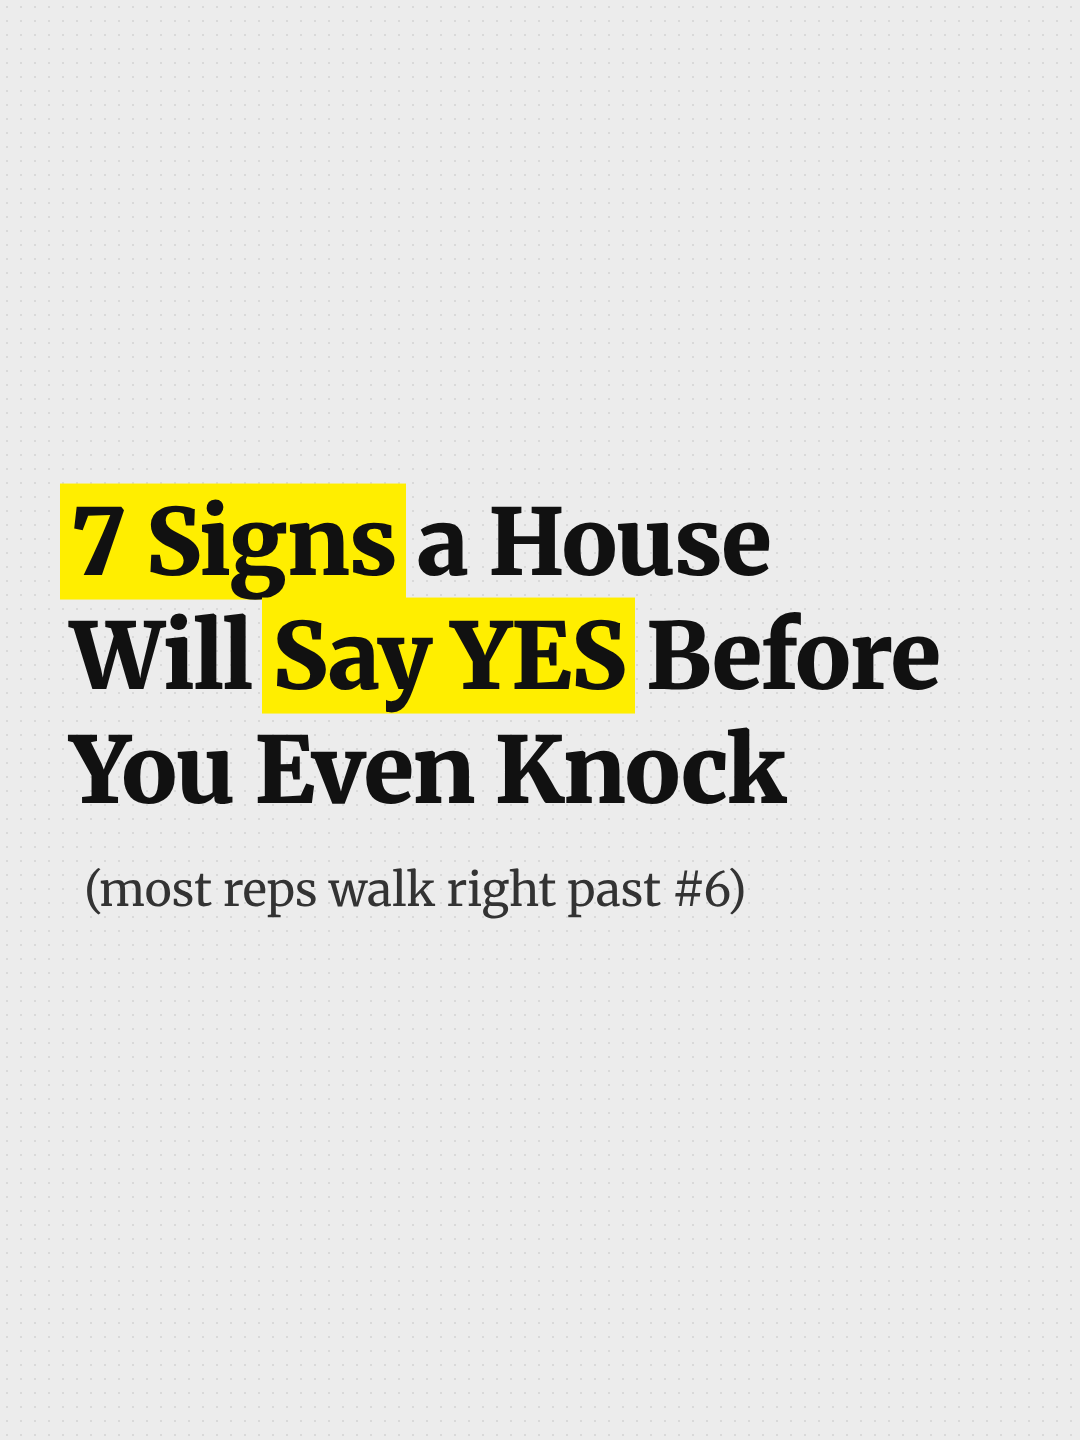
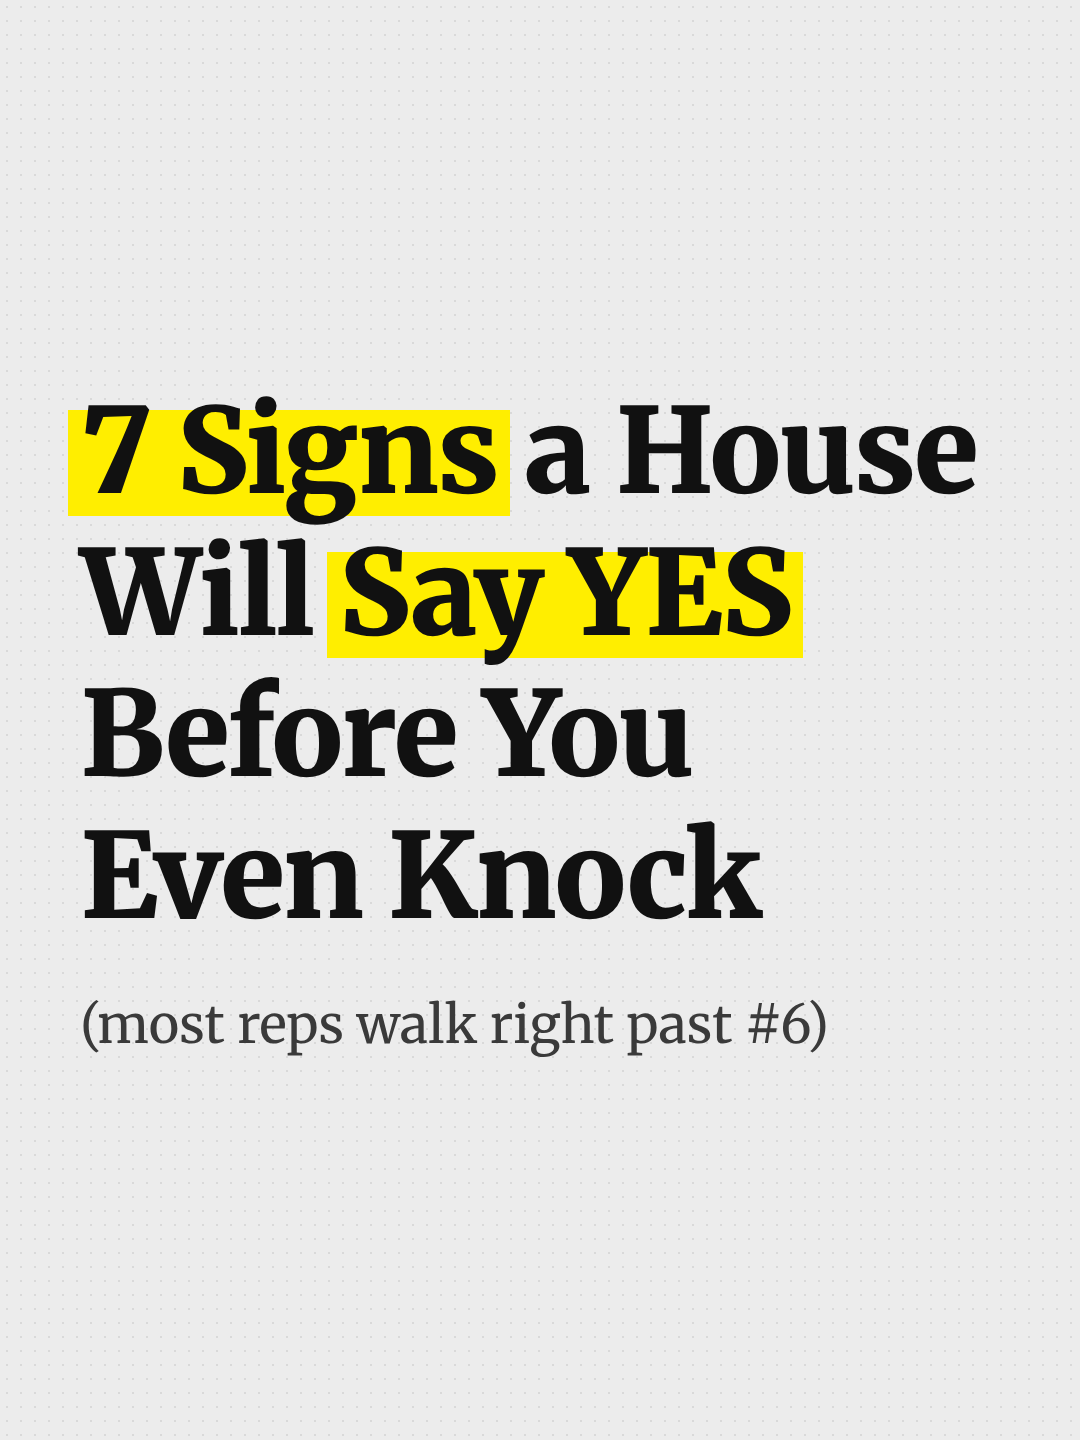
playbook: hook sizing, line breaks, marker highlights (F68)
Claude-Session: https://claude.ai/code/session_01EVxDagMumu1dzbEEzpRUBn

Changed region(s): [[0.0306, 0.2812, 0.9167, 0.6562], [0.0611, 0.6875, 0.7639, 0.75]]

diff --git a/video_research/content_kit/edits/signs_slides/hook.html b/video_research/content_kit/edits/signs_slides/hook.html
@@ -3,12 +3,16 @@
 @font-face{font-family:MW;src:url(/root/.fonts/Merriweather-900.ttf);font-weight:900}
 html,body{margin:0;width:1080px;height:1440px;overflow:hidden;font-family:MW;color:#111;
  background:#ececec radial-gradient(#d9d9d9 1.2px,transparent 1.3px) 0 0/14px 14px}
-.w{position:absolute;left:70px;right:40px;top:50%;transform:translateY(-54%)}
-.h{font-weight:900;font-size:92px;line-height:1.24;letter-spacing:-1.5px}
-.h span{display:inline;padding:0 10px;margin:0 -10px;-webkit-box-decoration-break:clone;box-decoration-break:clone}
-.h .y{background:#FFEE00}
-.s{font-weight:400;font-size:46px;line-height:1.3;margin-top:34px;color:#333;padding-left:14px}
+.w{position:absolute;left:80px;right:60px;top:50%;transform:translateY(-50%)}
+.h{font-weight:900;font-size:118px;line-height:1.2;letter-spacing:-2px}
+/* marker-style highlight: sits on the lower 70% of the letters, a little past each side */
+.y{background:linear-gradient(to bottom,transparent 22%,#FFEE00 22%,#FFEE00 94%,transparent 94%);padding:0 12px;margin:0 -12px;
+   -webkit-box-decoration-break:clone;box-decoration-break:clone}
+.s{font-weight:400;font-size:52px;line-height:1.3;margin-top:44px;color:#3a3a3a}
+.hd{position:absolute;left:0;right:0;bottom:90px;text-align:center;font-weight:400;font-size:34px;color:#8a8a8a}
 </style></head><body><div class="w">
-<div class="h"><span class="y">7 Signs</span> a House<br>Will <span class="y">Say YES</span> Before<br>You Even Knock</div>
+<div class="h"><span class="y">7 Signs</span> a House<br>Will <span class="y">Say YES</span><br>Before You<br>Even Knock</div>
 <div class="s">(most reps walk right past #6)</div>
-</div></body></html>
+</div><div class="hd" id="hd"></div>
+<script>const Q=new URLSearchParams(location.search); if(Q.get('handle')) document.getElementById('hd').textContent=Q.get('handle');</script>
+</body></html>

diff --git a/video_research/edit_playbook/FEEDBACK_LOG.md b/video_research/edit_playbook/FEEDBACK_LOG.md
@@ -294,6 +294,11 @@ Append-only. Newest entries at the bottom. Each entry: ID, date, video/version, 
 **F67** (2026-11-25, signs hook). "Don't know if those are the right highlights, put it on the right terms."
 - Rule: highlight the key terms, not whole lines: the subject ("7 Signs") and the outcome/payoff ("Say YES"), like the reference ("5 Things You Say" / "Sound Less Confident"). Max 2 highlights.
 
+
+**F68** (2026-11-25, signs hook). "What to do to improve this, doesn't look right to me."
+- Found: text too small for the canvas (big empty margins), awkward break ("Will Say YES Before" / "You Even Knock"), flat highlight boxes cutting the letter tops, subline misaligned.
+- Rule: hook headline ~118 px filling ~85% of the width, 3-4 balanced short lines broken at phrase boundaries, marker-style highlight (lower ~70% of the letters, slightly past each side), subline left-aligned with the headline. Optional small @handle at the bottom like the reference.
+
 ## Shipped
 - d2d_3_ways_close_rate_v4b.mp4 (1-2-3 order). Shipped 2026-11-21. Superseded: it had A/V drift (F15).
 - d2d_3_ways_123_order_FINAL.mp4 and d2d_3_ways_giftcard_first_FINAL.mp4. Shipped 2026-11-21, both QA PASS. Open: the qualifying questions and gift card business names are placeholders.
